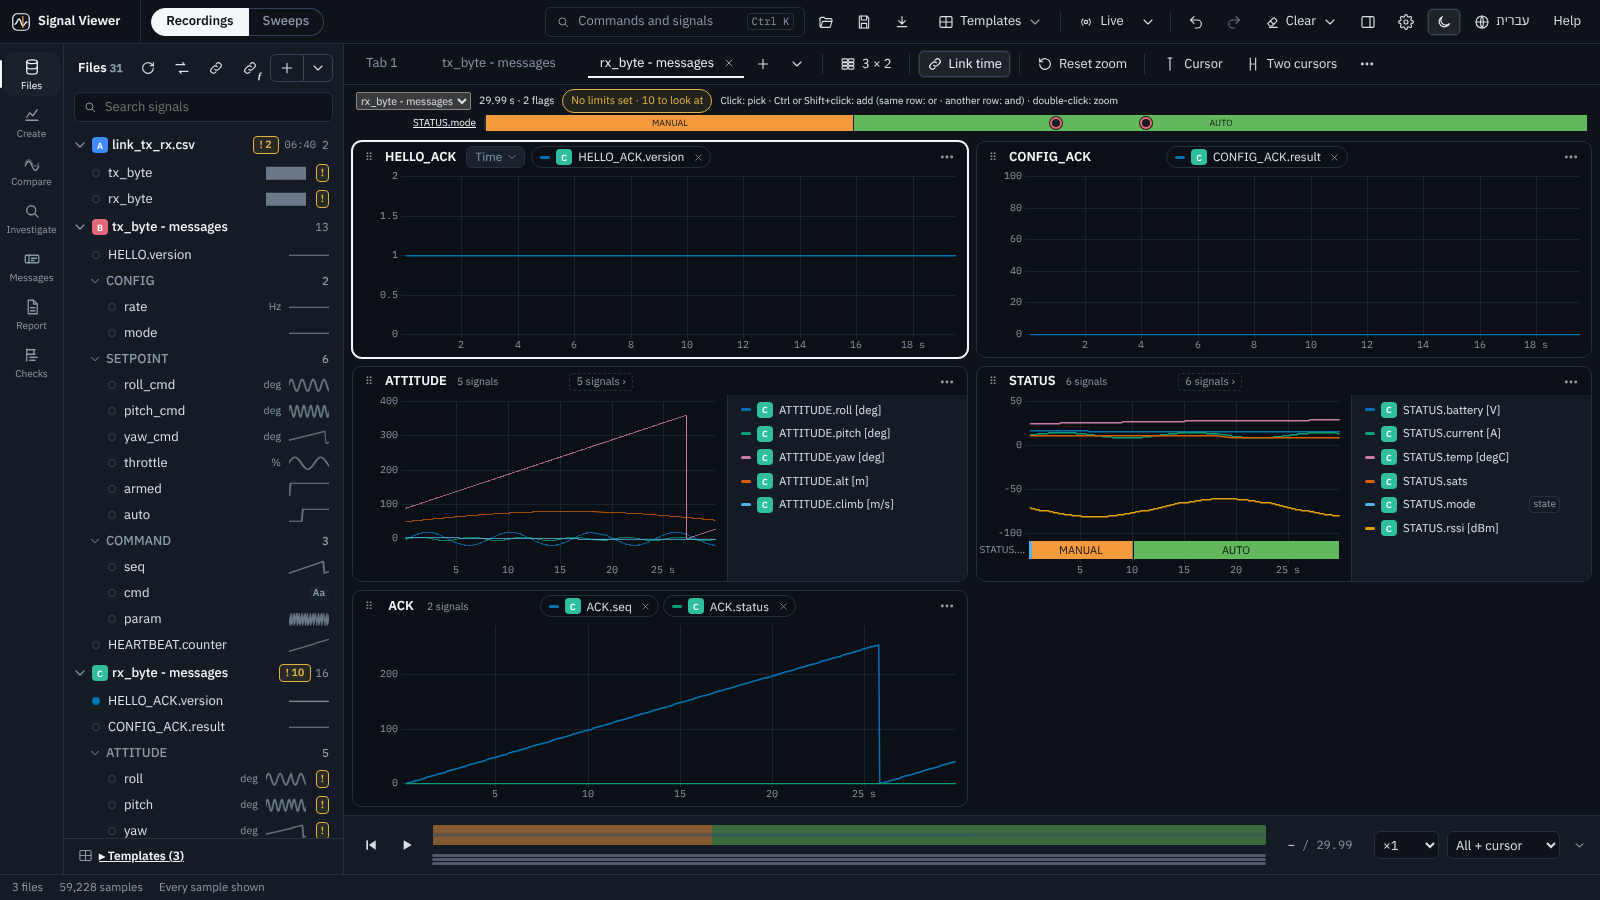
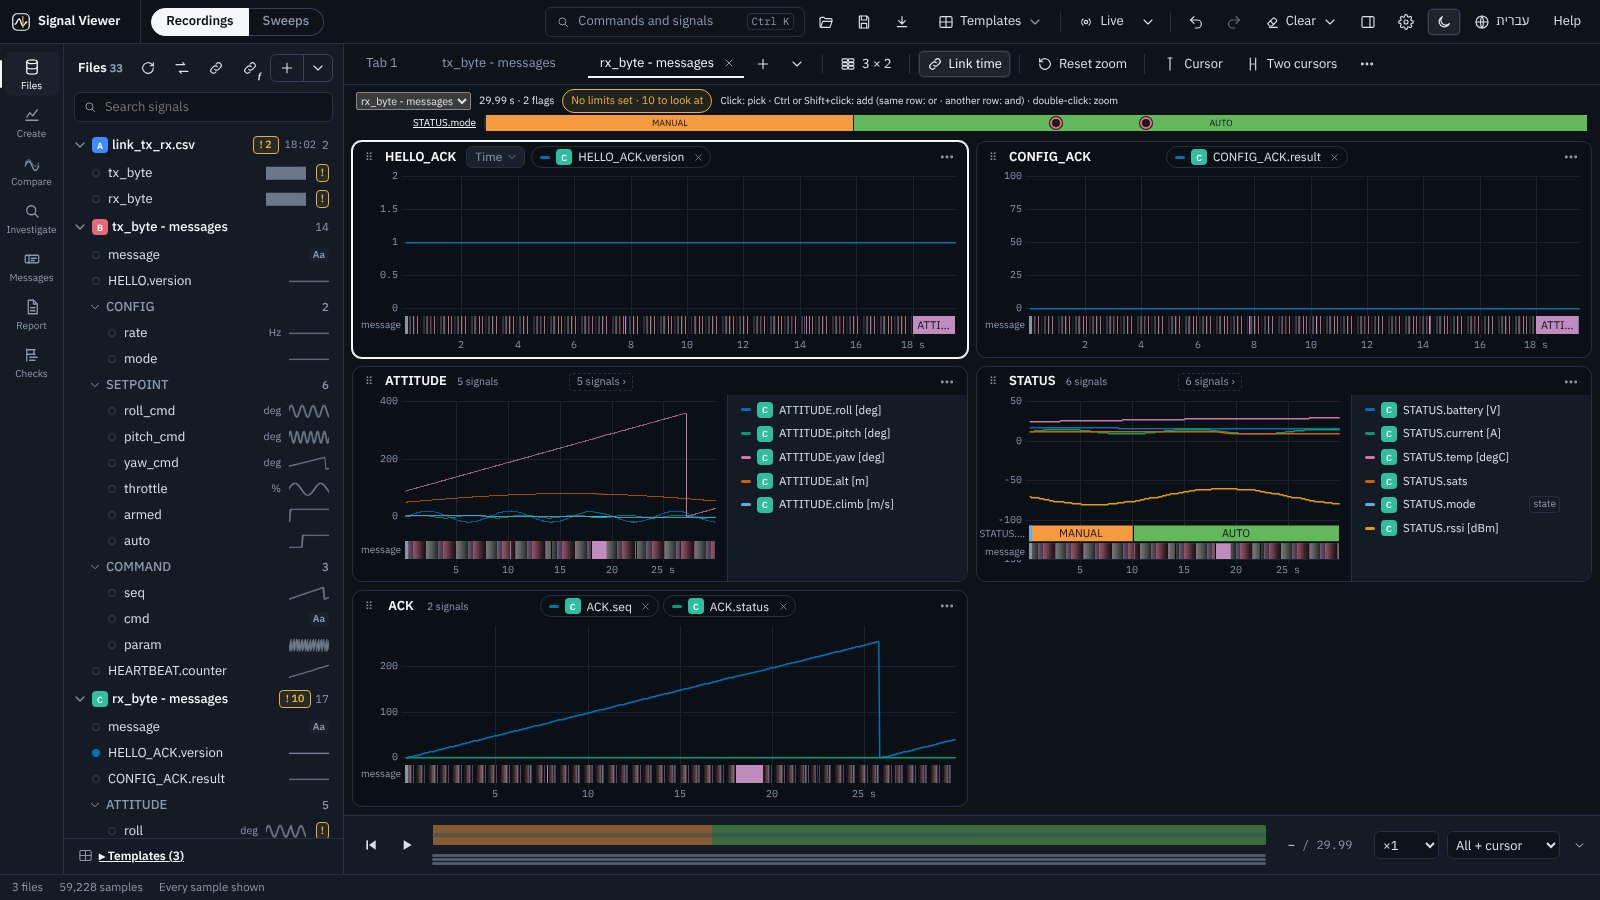
Release 1.34.0: the whole e2e one file at a time green (99 files, 539 passed); pictures 52 53 55 56 refreshed (the bytes as hex / ASCII, the messages' list, the message lane); TASKS, install.md [ci]
Claude-Session: https://claude.ai/code/session_0146GPW69z5MQS7mrNprgW3U

diff --git a/docs/dev/TASKS.md b/docs/dev/TASKS.md
@@ -18,7 +18,7 @@ task ticked in `ROADMAP.md`, the user-facing line in `CHANGELOG.md`, and a line 
 
 | Task | Status | Next step |
 |---|---|---|
-| Release 1.34.0 - CP4 Send to Confluence, CP3 the user macro, HL1 linked zoom, RE4 the built-in LaTeX, MSG5-MSG9 messages (owner, 2026-11-22: "yes - then release") | PREPARING 2026-11-22: version in the five files + install.md, CHANGELOG 1.34.0 with highlights, README (English + Hebrew), limitations, validation page; the whole e2e running | the owner tags v1.34.0 |
+| Release 1.34.0 - CP4 Send to Confluence, CP3 the user macro, HL1 linked zoom, RE4 the built-in LaTeX, MSG5-MSG9 messages (owner, 2026-11-22: "yes - then release") | READY 2026-11-22: version in the five files + install.md, CHANGELOG 1.34.0 with highlights, README (English + Hebrew), limitations, validation page, pictures 52 53 55 56, the whole e2e one file at a time (99 files, 539 passed, none failed), quick_check parts (backend 1516, Vitest 301, mypy), mkdocs --strict | the owner tags v1.34.0 |
 | CP4 - Send to Confluence straight from the app (owner, 2026-11-22: "the most important now") | built 2026-11-22 (against a stand-in of Confluence's REST API; not yet against the owner's Confluence 10.2) | the owner: Settings -> Confluence (address + personal access token), Save and test, then a plot's ⋯ -> Send to Confluence…; if his Data Center keeps the HTML macro off, the Signal Viewer macro (CP3) |
 | MSG8 - hex / numbers / ASCII, double, text fields, a conversion formula (owner, 2026-11-22) | built 2026-11-22 | the owner looks |
 | MSG9 - the proposal (16-bit counter, double, text; no slow type byte, no 00 footer), *Not the type byte*, a wider panel (owner, 2026-11-22) | built 2026-11-22 | the owner looks |
@@ -170,6 +170,8 @@ task ticked in `ROADMAP.md`, the user-facing line in `CHANGELOG.md`, and a line 
 
 ## Log
 
+- 2026-11-22 · Release 1.34.0 prepared (owner: "yes - then release"): the whole e2e one file at a time - 99 files, 539 passed, none
+  failed; pictures 52 53 55 56 (the bytes view, the step 4 list, the `message` lane); backend 1516, Vitest 301, mypy, mkdocs --strict.
 - 2026-11-22 · MSG9: the proposal reads the MSG8 test stream right by itself; Not the type byte; Messages 520 px. backend all,
   e2e test_messages (13) green.
 - 2026-11-22 · CP4 (owner: "the easiest way to throw an interactive plot straight to Confluence"): app/confluence.py, routes, Settings,

diff --git a/docs/install.md b/docs/install.md
@@ -154,7 +154,7 @@ Tests:
 ```bash
 python -m pytest backend/tests          # ~1,500 server tests (incl. damaged copies of every format)
 pip install -r requirements-dev.txt && python -m playwright install chromium
-python -m pytest tests/e2e              # ~520 browser tests, the whole suite in one run (~30 min)
+python -m pytest tests/e2e              # ~540 browser tests, the whole suite in one run (~30 min)
 python -m pytest tests/e2e/test_features.py    # or one file: one test per catalog feature
 cd backend && mypy --config-file ../pyproject.toml app svcore signalviewer   # type check
 python tools/benchmark.py big.csv       # performance against the targets (results in docs/)
